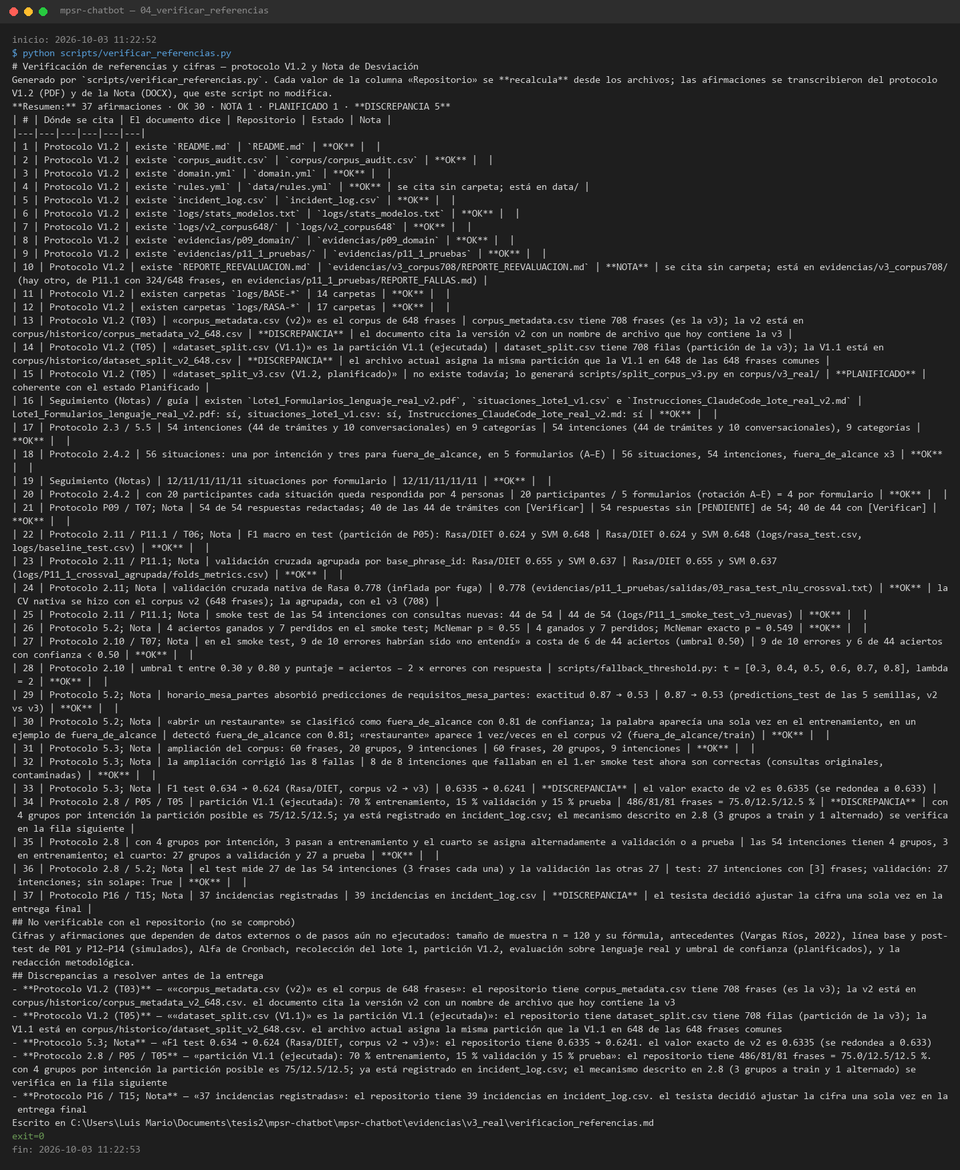
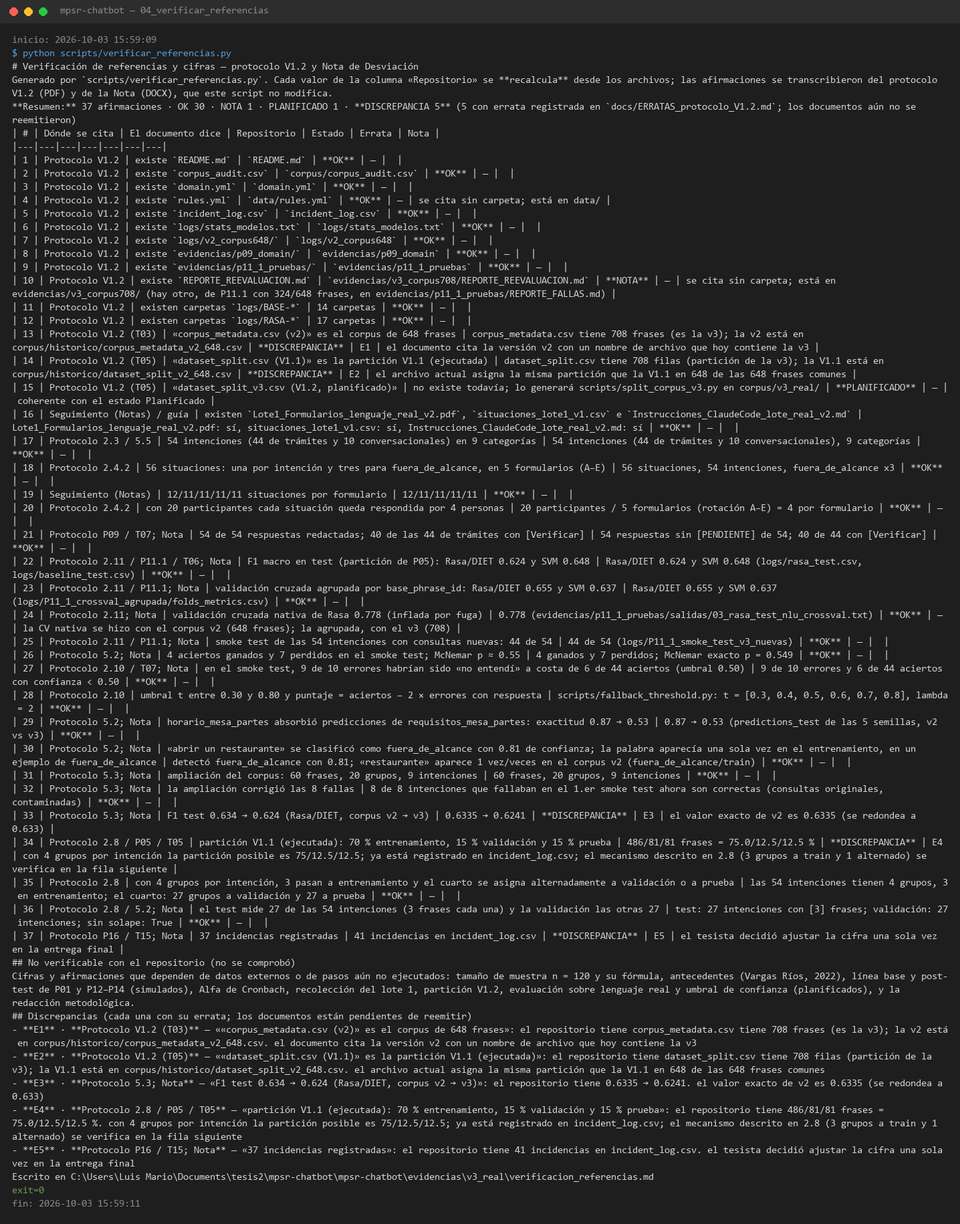
Corrige las 5 discrepancias entre el protocolo V1.2 / la nota y el repositorio
- docs/ERRATAS_protocolo_V1.2.md: E1-E5 con ubicación, texto actual, texto corregido y evidencia:
  E1 corpus_metadata.csv (v2) -> v3 (708); E2 dataset_split.csv (V1.1) -> corpus/historico/; E3 F1 0.634 -> 0.633 (valor exacto 0.63346);
  E4 partición 70/15/15 -> 75/12.5/12.5 (3 de 4 grupos a entrenamiento); E5 37 incidencias -> cifra viva (41 hoy)
- README: la partición vigente no sale de split_corpus.py; tabla de correspondencia con los nombres del protocolo
- corpus/historico/LEEME.md; comentario de expand_corpus.py con la proporción real (solo comentario)
- verificar_referencias.py liga cada discrepancia con su errata (5 de 5); evidencias y incident_log.csv (41 incidencias)
- Los PDF/DOCX no se editaron: las erratas se aplican al reemitir los documentos; no se cambió ningún dato

Changed region(s): [[0.0, 0.0309, 0.9805, 0.9874], [0.9499, 0.3703, 0.9805, 0.4011], [0.766, 0.216, 0.7967, 0.2469]]

diff --git a/scripts/verificar_referencias.py b/scripts/verificar_referencias.py
@@ -192,21 +192,36 @@ def main():
         "el tesista decidió ajustar la cifra una sola vez en la entrega final" if n_inc != 37 else "")
 
     # ============================================================ salida
+    ERRATAS = {"«corpus_metadata.csv (v2)»": "E1", "«dataset_split.csv (V1.1)»": "E2", "F1 test 0.634": "E3",
+               "partición V1.1 (ejecutada): 70 %": "E4", "37 incidencias registradas": "E5"}
+    ruta_err = ROOT / "docs" / "ERRATAS_protocolo_V1.2.md"
+    texto_err = ruta_err.read_text(encoding="utf-8") if ruta_err.exists() else ""
+
+    def errata_de(fila):
+        for clave, e in ERRATAS.items():
+            if clave in fila[1] and f"## {e} " in texto_err:
+                return e
+        return ""
+
     cuenta = {e: sum(1 for f in FILAS if f[3] == e) for e in ("OK", "NOTA", "PLANIFICADO", "DISCREPANCIA")}
+    disc = [f for f in FILAS if f[3] == "DISCREPANCIA"]
+    con_errata = sum(1 for f in disc if errata_de(f))
     L = ["# Verificación de referencias y cifras — protocolo V1.2 y Nota de Desviación", "",
          "Generado por `scripts/verificar_referencias.py`. Cada valor de la columna «Repositorio» se **recalcula** desde los archivos; las afirmaciones se transcribieron "
          "del protocolo V1.2 (PDF) y de la Nota (DOCX), que este script no modifica.", "",
-         f"**Resumen:** {len(FILAS)} afirmaciones · OK {cuenta['OK']} · NOTA {cuenta['NOTA']} · PLANIFICADO {cuenta['PLANIFICADO']} · **DISCREPANCIA {cuenta['DISCREPANCIA']}**", "",
-         "| # | Dónde se cita | El documento dice | Repositorio | Estado | Nota |", "|---|---|---|---|---|---|"]
-    for i, (d, dice, repo, est, nota) in enumerate(FILAS, 1):
-        L.append(f"| {i} | {d} | {dice} | {repo} | **{est}** | {nota} |".replace("\n", " "))
+         f"**Resumen:** {len(FILAS)} afirmaciones · OK {cuenta['OK']} · NOTA {cuenta['NOTA']} · PLANIFICADO {cuenta['PLANIFICADO']} · **DISCREPANCIA {cuenta['DISCREPANCIA']}** "
+         f"({con_errata} con errata registrada en `docs/ERRATAS_protocolo_V1.2.md`; los documentos aún no se reemitieron)", "",
+         "| # | Dónde se cita | El documento dice | Repositorio | Estado | Errata | Nota |", "|---|---|---|---|---|---|---|"]
+    for i, f in enumerate(FILAS, 1):
+        d, dice, repo, est, nota = f
+        L.append(f"| {i} | {d} | {dice} | {repo} | **{est}** | {errata_de(f) or '—'} | {nota} |".replace("\n", " "))
     L += ["", "## No verificable con el repositorio (no se comprobó)", "",
           "Cifras y afirmaciones que dependen de datos externos o de pasos aún no ejecutados: tamaño de muestra n = 120 y su fórmula, antecedentes (Vargas Ríos, 2022), "
           "línea base y post-test de P01 y P12–P14 (simulados), Alfa de Cronbach, recolección del lote 1, partición V1.2, evaluación sobre lenguaje real y umbral de confianza "
           "(planificados), y la redacción metodológica."]
-    disc = [f for f in FILAS if f[3] == "DISCREPANCIA"]
     if disc:
-        L += ["", "## Discrepancias a resolver antes de la entrega", ""] + [f"- **{f[0]}** — «{f[1]}»: el repositorio tiene {f[2]}. {f[4]}" for f in disc]
+        L += ["", "## Discrepancias (cada una con su errata; los documentos están pendientes de reemitir)", ""] + [
+            f"- **{errata_de(f) or 'sin errata'}** · **{f[0]}** — «{f[1]}»: el repositorio tiene {f[2]}. {f[4]}" for f in disc]
     out = ROOT / "evidencias" / "v3_real" / "verificacion_referencias.md"
     out.parent.mkdir(parents=True, exist_ok=True)
     out.write_text("\n".join(L) + "\n", encoding="utf-8")

diff --git a/scripts/expand_corpus.py b/scripts/expand_corpus.py
@@ -152,9 +152,9 @@ print(f"Total utterances: {len(rows)}  (antes: 324)")
 print(f"Total grupos: {len(groups)}  (antes: 108)")
 
 # ---------------------------------------------------------------------------
-# Partición MEJORADA: proporción ~70/15/15 POR INTENCIÓN (no solo 1 grupo a
-# train). Con 4 grupos/intención: round(4*0.7)=3 a train, resto alterna
-# validation/test.
+# Partición MEJORADA por intención (no solo 1 grupo a train): nominal 70/15/15,
+# pero con 4 grupos/intención: round(4*0.7)=3 a train y el cuarto alterna
+# validation/test, lo que da 486/81/81 frases = 75/12.5/12.5 % (no 70/15/15).
 # ---------------------------------------------------------------------------
 intent_to_groups = {}
 for bpid, intent, category in groups:

diff --git a/evidencias/v3_real/verificacion_referencias.md b/evidencias/v3_real/verificacion_referencias.md
@@ -2,56 +2,56 @@
 
 Generado por `scripts/verificar_referencias.py`. Cada valor de la columna «Repositorio» se **recalcula** desde los archivos; las afirmaciones se transcribieron del protocolo V1.2 (PDF) y de la Nota (DOCX), que este script no modifica.
 
-**Resumen:** 37 afirmaciones · OK 30 · NOTA 1 · PLANIFICADO 1 · **DISCREPANCIA 5**
+**Resumen:** 37 afirmaciones · OK 30 · NOTA 1 · PLANIFICADO 1 · **DISCREPANCIA 5** (5 con errata registrada en `docs/ERRATAS_protocolo_V1.2.md`; los documentos aún no se reemitieron)
 
-| # | Dónde se cita | El documento dice | Repositorio | Estado | Nota |
-|---|---|---|---|---|---|
-| 1 | Protocolo V1.2 | existe `README.md` | `README.md` | **OK** |  |
-| 2 | Protocolo V1.2 | existe `corpus_audit.csv` | `corpus/corpus_audit.csv` | **OK** |  |
-| 3 | Protocolo V1.2 | existe `domain.yml` | `domain.yml` | **OK** |  |
-| 4 | Protocolo V1.2 | existe `rules.yml` | `data/rules.yml` | **OK** | se cita sin carpeta; está en data/ |
-| 5 | Protocolo V1.2 | existe `incident_log.csv` | `incident_log.csv` | **OK** |  |
-| 6 | Protocolo V1.2 | existe `logs/stats_modelos.txt` | `logs/stats_modelos.txt` | **OK** |  |
-| 7 | Protocolo V1.2 | existe `logs/v2_corpus648/` | `logs/v2_corpus648` | **OK** |  |
-| 8 | Protocolo V1.2 | existe `evidencias/p09_domain/` | `evidencias/p09_domain` | **OK** |  |
-| 9 | Protocolo V1.2 | existe `evidencias/p11_1_pruebas/` | `evidencias/p11_1_pruebas` | **OK** |  |
-| 10 | Protocolo V1.2 | existe `REPORTE_REEVALUACION.md` | `evidencias/v3_corpus708/REPORTE_REEVALUACION.md` | **NOTA** | se cita sin carpeta; está en evidencias/v3_corpus708/ (hay otro, de P11.1 con 324/648 frases, en evidencias/p11_1_pruebas/REPORTE_FALLAS.md) |
-| 11 | Protocolo V1.2 | existen carpetas `logs/BASE-*` | 14 carpetas | **OK** |  |
-| 12 | Protocolo V1.2 | existen carpetas `logs/RASA-*` | 17 carpetas | **OK** |  |
-| 13 | Protocolo V1.2 (T03) | «corpus_metadata.csv (v2)» es el corpus de 648 frases | corpus_metadata.csv tiene 708 frases (es la v3); la v2 está en corpus/historico/corpus_metadata_v2_648.csv | **DISCREPANCIA** | el documento cita la versión v2 con un nombre de archivo que hoy contiene la v3 |
-| 14 | Protocolo V1.2 (T05) | «dataset_split.csv (V1.1)» es la partición V1.1 (ejecutada) | dataset_split.csv tiene 708 filas (partición de la v3); la V1.1 está en corpus/historico/dataset_split_v2_648.csv | **DISCREPANCIA** | el archivo actual asigna la misma partición que la V1.1 en 648 de las 648 frases comunes |
-| 15 | Protocolo V1.2 (T05) | «dataset_split_v3.csv (V1.2, planificado)» | no existe todavía; lo generará scripts/split_corpus_v3.py en corpus/v3_real/ | **PLANIFICADO** | coherente con el estado Planificado |
-| 16 | Seguimiento (Notas) / guía | existen `Lote1_Formularios_lenguaje_real_v2.pdf`, `situaciones_lote1_v1.csv` e `Instrucciones_ClaudeCode_lote_real_v2.md` | Lote1_Formularios_lenguaje_real_v2.pdf: sí, situaciones_lote1_v1.csv: sí, Instrucciones_ClaudeCode_lote_real_v2.md: sí | **OK** |  |
-| 17 | Protocolo 2.3 / 5.5 | 54 intenciones (44 de trámites y 10 conversacionales) en 9 categorías | 54 intenciones (44 de trámites y 10 conversacionales), 9 categorías | **OK** |  |
-| 18 | Protocolo 2.4.2 | 56 situaciones: una por intención y tres para fuera_de_alcance, en 5 formularios (A–E) | 56 situaciones, 54 intenciones, fuera_de_alcance x3 | **OK** |  |
-| 19 | Seguimiento (Notas) | 12/11/11/11/11 situaciones por formulario | 12/11/11/11/11 | **OK** |  |
-| 20 | Protocolo 2.4.2 | con 20 participantes cada situación queda respondida por 4 personas | 20 participantes / 5 formularios (rotación A–E) = 4 por formulario | **OK** |  |
-| 21 | Protocolo P09 / T07; Nota | 54 de 54 respuestas redactadas; 40 de las 44 de trámites con [Verificar] | 54 respuestas sin [PENDIENTE] de 54; 40 de 44 con [Verificar] | **OK** |  |
-| 22 | Protocolo 2.11 / P11.1 / T06; Nota | F1 macro en test (partición de P05): Rasa/DIET 0.624 y SVM 0.648 | Rasa/DIET 0.624 y SVM 0.648 (logs/rasa_test.csv, logs/baseline_test.csv) | **OK** |  |
-| 23 | Protocolo 2.11 / P11.1; Nota | validación cruzada agrupada por base_phrase_id: Rasa/DIET 0.655 y SVM 0.637 | Rasa/DIET 0.655 y SVM 0.637 (logs/P11_1_crossval_agrupada/folds_metrics.csv) | **OK** |  |
-| 24 | Protocolo 2.11; Nota | validación cruzada nativa de Rasa 0.778 (inflada por fuga) | 0.778 (evidencias/p11_1_pruebas/salidas/03_rasa_test_nlu_crossval.txt) | **OK** | la CV nativa se hizo con el corpus v2 (648 frases); la agrupada, con el v3 (708) |
-| 25 | Protocolo 2.11 / P11.1; Nota | smoke test de las 54 intenciones con consultas nuevas: 44 de 54 | 44 de 54 (logs/P11_1_smoke_test_v3_nuevas) | **OK** |  |
-| 26 | Protocolo 5.2; Nota | 4 aciertos ganados y 7 perdidos en el smoke test; McNemar p ≈ 0.55 | 4 ganados y 7 perdidos; McNemar exacto p = 0.549 | **OK** |  |
-| 27 | Protocolo 2.10 / T07; Nota | en el smoke test, 9 de 10 errores habrían sido «no entendí» a costa de 6 de 44 aciertos (umbral 0.50) | 9 de 10 errores y 6 de 44 aciertos con confianza < 0.50 | **OK** |  |
-| 28 | Protocolo 2.10 | umbral t entre 0.30 y 0.80 y puntaje = aciertos − 2 × errores con respuesta | scripts/fallback_threshold.py: t = [0.3, 0.4, 0.5, 0.6, 0.7, 0.8], lambda = 2 | **OK** |  |
-| 29 | Protocolo 5.2; Nota | horario_mesa_partes absorbió predicciones de requisitos_mesa_partes: exactitud 0.87 → 0.53 | 0.87 → 0.53 (predictions_test de las 5 semillas, v2 vs v3) | **OK** |  |
-| 30 | Protocolo 5.2; Nota | «abrir un restaurante» se clasificó como fuera_de_alcance con 0.81 de confianza; la palabra aparecía una sola vez en el entrenamiento, en un ejemplo de fuera_de_alcance | detectó fuera_de_alcance con 0.81; «restaurante» aparece 1 vez/veces en el corpus v2 (fuera_de_alcance/train) | **OK** |  |
-| 31 | Protocolo 5.3; Nota | ampliación del corpus: 60 frases, 20 grupos, 9 intenciones | 60 frases, 20 grupos, 9 intenciones | **OK** |  |
-| 32 | Protocolo 5.3; Nota | la ampliación corrigió las 8 fallas | 8 de 8 intenciones que fallaban en el 1.er smoke test ahora son correctas (consultas originales, contaminadas) | **OK** |  |
-| 33 | Protocolo 5.3; Nota | F1 test 0.634 → 0.624 (Rasa/DIET, corpus v2 → v3) | 0.6335 → 0.6241 | **DISCREPANCIA** | el valor exacto de v2 es 0.6335 (se redondea a 0.633) |
-| 34 | Protocolo 2.8 / P05 / T05 | partición V1.1 (ejecutada): 70 % entrenamiento, 15 % validación y 15 % prueba | 486/81/81 frases = 75.0/12.5/12.5 % | **DISCREPANCIA** | con 4 grupos por intención la partición posible es 75/12.5/12.5; ya está registrado en incident_log.csv; el mecanismo descrito en 2.8 (3 grupos a train y 1 alternado) se verifica en la fila siguiente |
-| 35 | Protocolo 2.8 | con 4 grupos por intención, 3 pasan a entrenamiento y el cuarto se asigna alternadamente a validación o a prueba | las 54 intenciones tienen 4 grupos, 3 en entrenamiento; el cuarto: 27 grupos a validación y 27 a prueba | **OK** |  |
-| 36 | Protocolo 2.8 / 5.2; Nota | el test mide 27 de las 54 intenciones (3 frases cada una) y la validación las otras 27 | test: 27 intenciones con [3] frases; validación: 27 intenciones; sin solape: True | **OK** |  |
-| 37 | Protocolo P16 / T15; Nota | 37 incidencias registradas | 39 incidencias en incident_log.csv | **DISCREPANCIA** | el tesista decidió ajustar la cifra una sola vez en la entrega final |
+| # | Dónde se cita | El documento dice | Repositorio | Estado | Errata | Nota |
+|---|---|---|---|---|---|---|
+| 1 | Protocolo V1.2 | existe `README.md` | `README.md` | **OK** | — |  |
+| 2 | Protocolo V1.2 | existe `corpus_audit.csv` | `corpus/corpus_audit.csv` | **OK** | — |  |
+| 3 | Protocolo V1.2 | existe `domain.yml` | `domain.yml` | **OK** | — |  |
+| 4 | Protocolo V1.2 | existe `rules.yml` | `data/rules.yml` | **OK** | — | se cita sin carpeta; está en data/ |
+| 5 | Protocolo V1.2 | existe `incident_log.csv` | `incident_log.csv` | **OK** | — |  |
+| 6 | Protocolo V1.2 | existe `logs/stats_modelos.txt` | `logs/stats_modelos.txt` | **OK** | — |  |
+| 7 | Protocolo V1.2 | existe `logs/v2_corpus648/` | `logs/v2_corpus648` | **OK** | — |  |
+| 8 | Protocolo V1.2 | existe `evidencias/p09_domain/` | `evidencias/p09_domain` | **OK** | — |  |
+| 9 | Protocolo V1.2 | existe `evidencias/p11_1_pruebas/` | `evidencias/p11_1_pruebas` | **OK** | — |  |
+| 10 | Protocolo V1.2 | existe `REPORTE_REEVALUACION.md` | `evidencias/v3_corpus708/REPORTE_REEVALUACION.md` | **NOTA** | — | se cita sin carpeta; está en evidencias/v3_corpus708/ (hay otro, de P11.1 con 324/648 frases, en evidencias/p11_1_pruebas/REPORTE_FALLAS.md) |
+| 11 | Protocolo V1.2 | existen carpetas `logs/BASE-*` | 14 carpetas | **OK** | — |  |
+| 12 | Protocolo V1.2 | existen carpetas `logs/RASA-*` | 17 carpetas | **OK** | — |  |
+| 13 | Protocolo V1.2 (T03) | «corpus_metadata.csv (v2)» es el corpus de 648 frases | corpus_metadata.csv tiene 708 frases (es la v3); la v2 está en corpus/historico/corpus_metadata_v2_648.csv | **DISCREPANCIA** | E1 | el documento cita la versión v2 con un nombre de archivo que hoy contiene la v3 |
+| 14 | Protocolo V1.2 (T05) | «dataset_split.csv (V1.1)» es la partición V1.1 (ejecutada) | dataset_split.csv tiene 708 filas (partición de la v3); la V1.1 está en corpus/historico/dataset_split_v2_648.csv | **DISCREPANCIA** | E2 | el archivo actual asigna la misma partición que la V1.1 en 648 de las 648 frases comunes |
+| 15 | Protocolo V1.2 (T05) | «dataset_split_v3.csv (V1.2, planificado)» | no existe todavía; lo generará scripts/split_corpus_v3.py en corpus/v3_real/ | **PLANIFICADO** | — | coherente con el estado Planificado |
+| 16 | Seguimiento (Notas) / guía | existen `Lote1_Formularios_lenguaje_real_v2.pdf`, `situaciones_lote1_v1.csv` e `Instrucciones_ClaudeCode_lote_real_v2.md` | Lote1_Formularios_lenguaje_real_v2.pdf: sí, situaciones_lote1_v1.csv: sí, Instrucciones_ClaudeCode_lote_real_v2.md: sí | **OK** | — |  |
+| 17 | Protocolo 2.3 / 5.5 | 54 intenciones (44 de trámites y 10 conversacionales) en 9 categorías | 54 intenciones (44 de trámites y 10 conversacionales), 9 categorías | **OK** | — |  |
+| 18 | Protocolo 2.4.2 | 56 situaciones: una por intención y tres para fuera_de_alcance, en 5 formularios (A–E) | 56 situaciones, 54 intenciones, fuera_de_alcance x3 | **OK** | — |  |
+| 19 | Seguimiento (Notas) | 12/11/11/11/11 situaciones por formulario | 12/11/11/11/11 | **OK** | — |  |
+| 20 | Protocolo 2.4.2 | con 20 participantes cada situación queda respondida por 4 personas | 20 participantes / 5 formularios (rotación A–E) = 4 por formulario | **OK** | — |  |
+| 21 | Protocolo P09 / T07; Nota | 54 de 54 respuestas redactadas; 40 de las 44 de trámites con [Verificar] | 54 respuestas sin [PENDIENTE] de 54; 40 de 44 con [Verificar] | **OK** | — |  |
+| 22 | Protocolo 2.11 / P11.1 / T06; Nota | F1 macro en test (partición de P05): Rasa/DIET 0.624 y SVM 0.648 | Rasa/DIET 0.624 y SVM 0.648 (logs/rasa_test.csv, logs/baseline_test.csv) | **OK** | — |  |
+| 23 | Protocolo 2.11 / P11.1; Nota | validación cruzada agrupada por base_phrase_id: Rasa/DIET 0.655 y SVM 0.637 | Rasa/DIET 0.655 y SVM 0.637 (logs/P11_1_crossval_agrupada/folds_metrics.csv) | **OK** | — |  |
+| 24 | Protocolo 2.11; Nota | validación cruzada nativa de Rasa 0.778 (inflada por fuga) | 0.778 (evidencias/p11_1_pruebas/salidas/03_rasa_test_nlu_crossval.txt) | **OK** | — | la CV nativa se hizo con el corpus v2 (648 frases); la agrupada, con el v3 (708) |
+| 25 | Protocolo 2.11 / P11.1; Nota | smoke test de las 54 intenciones con consultas nuevas: 44 de 54 | 44 de 54 (logs/P11_1_smoke_test_v3_nuevas) | **OK** | — |  |
+| 26 | Protocolo 5.2; Nota | 4 aciertos ganados y 7 perdidos en el smoke test; McNemar p ≈ 0.55 | 4 ganados y 7 perdidos; McNemar exacto p = 0.549 | **OK** | — |  |
+| 27 | Protocolo 2.10 / T07; Nota | en el smoke test, 9 de 10 errores habrían sido «no entendí» a costa de 6 de 44 aciertos (umbral 0.50) | 9 de 10 errores y 6 de 44 aciertos con confianza < 0.50 | **OK** | — |  |
+| 28 | Protocolo 2.10 | umbral t entre 0.30 y 0.80 y puntaje = aciertos − 2 × errores con respuesta | scripts/fallback_threshold.py: t = [0.3, 0.4, 0.5, 0.6, 0.7, 0.8], lambda = 2 | **OK** | — |  |
+| 29 | Protocolo 5.2; Nota | horario_mesa_partes absorbió predicciones de requisitos_mesa_partes: exactitud 0.87 → 0.53 | 0.87 → 0.53 (predictions_test de las 5 semillas, v2 vs v3) | **OK** | — |  |
+| 30 | Protocolo 5.2; Nota | «abrir un restaurante» se clasificó como fuera_de_alcance con 0.81 de confianza; la palabra aparecía una sola vez en el entrenamiento, en un ejemplo de fuera_de_alcance | detectó fuera_de_alcance con 0.81; «restaurante» aparece 1 vez/veces en el corpus v2 (fuera_de_alcance/train) | **OK** | — |  |
+| 31 | Protocolo 5.3; Nota | ampliación del corpus: 60 frases, 20 grupos, 9 intenciones | 60 frases, 20 grupos, 9 intenciones | **OK** | — |  |
+| 32 | Protocolo 5.3; Nota | la ampliación corrigió las 8 fallas | 8 de 8 intenciones que fallaban en el 1.er smoke test ahora son correctas (consultas originales, contaminadas) | **OK** | — |  |
+| 33 | Protocolo 5.3; Nota | F1 test 0.634 → 0.624 (Rasa/DIET, corpus v2 → v3) | 0.6335 → 0.6241 | **DISCREPANCIA** | E3 | el valor exacto de v2 es 0.6335 (se redondea a 0.633) |
+| 34 | Protocolo 2.8 / P05 / T05 | partición V1.1 (ejecutada): 70 % entrenamiento, 15 % validación y 15 % prueba | 486/81/81 frases = 75.0/12.5/12.5 % | **DISCREPANCIA** | E4 | con 4 grupos por intención la partición posible es 75/12.5/12.5; ya está registrado en incident_log.csv; el mecanismo descrito en 2.8 (3 grupos a train y 1 alternado) se verifica en la fila siguiente |
+| 35 | Protocolo 2.8 | con 4 grupos por intención, 3 pasan a entrenamiento y el cuarto se asigna alternadamente a validación o a prueba | las 54 intenciones tienen 4 grupos, 3 en entrenamiento; el cuarto: 27 grupos a validación y 27 a prueba | **OK** | — |  |
+| 36 | Protocolo 2.8 / 5.2; Nota | el test mide 27 de las 54 intenciones (3 frases cada una) y la validación las otras 27 | test: 27 intenciones con [3] frases; validación: 27 intenciones; sin solape: True | **OK** | — |  |
+| 37 | Protocolo P16 / T15; Nota | 37 incidencias registradas | 41 incidencias en incident_log.csv | **DISCREPANCIA** | E5 | el tesista decidió ajustar la cifra una sola vez en la entrega final |
 
 ## No verificable con el repositorio (no se comprobó)
 
 Cifras y afirmaciones que dependen de datos externos o de pasos aún no ejecutados: tamaño de muestra n = 120 y su fórmula, antecedentes (Vargas Ríos, 2022), línea base y post-test de P01 y P12–P14 (simulados), Alfa de Cronbach, recolección del lote 1, partición V1.2, evaluación sobre lenguaje real y umbral de confianza (planificados), y la redacción metodológica.
 
-## Discrepancias a resolver antes de la entrega
+## Discrepancias (cada una con su errata; los documentos están pendientes de reemitir)
 
-- **Protocolo V1.2 (T03)** — ««corpus_metadata.csv (v2)» es el corpus de 648 frases»: el repositorio tiene corpus_metadata.csv tiene 708 frases (es la v3); la v2 está en corpus/historico/corpus_metadata_v2_648.csv. el documento cita la versión v2 con un nombre de archivo que hoy contiene la v3
-- **Protocolo V1.2 (T05)** — ««dataset_split.csv (V1.1)» es la partición V1.1 (ejecutada)»: el repositorio tiene dataset_split.csv tiene 708 filas (partición de la v3); la V1.1 está en corpus/historico/dataset_split_v2_648.csv. el archivo actual asigna la misma partición que la V1.1 en 648 de las 648 frases comunes
-- **Protocolo 5.3; Nota** — «F1 test 0.634 → 0.624 (Rasa/DIET, corpus v2 → v3)»: el repositorio tiene 0.6335 → 0.6241. el valor exacto de v2 es 0.6335 (se redondea a 0.633)
-- **Protocolo 2.8 / P05 / T05** — «partición V1.1 (ejecutada): 70 % entrenamiento, 15 % validación y 15 % prueba»: el repositorio tiene 486/81/81 frases = 75.0/12.5/12.5 %. con 4 grupos por intención la partición posible es 75/12.5/12.5; ya está registrado en incident_log.csv; el mecanismo descrito en 2.8 (3 grupos a train y 1 alternado) se verifica en la fila siguiente
-- **Protocolo P16 / T15; Nota** — «37 incidencias registradas»: el repositorio tiene 39 incidencias en incident_log.csv. el tesista decidió ajustar la cifra una sola vez en la entrega final
+- **E1** · **Protocolo V1.2 (T03)** — ««corpus_metadata.csv (v2)» es el corpus de 648 frases»: el repositorio tiene corpus_metadata.csv tiene 708 frases (es la v3); la v2 está en corpus/historico/corpus_metadata_v2_648.csv. el documento cita la versión v2 con un nombre de archivo que hoy contiene la v3
+- **E2** · **Protocolo V1.2 (T05)** — ««dataset_split.csv (V1.1)» es la partición V1.1 (ejecutada)»: el repositorio tiene dataset_split.csv tiene 708 filas (partición de la v3); la V1.1 está en corpus/historico/dataset_split_v2_648.csv. el archivo actual asigna la misma partición que la V1.1 en 648 de las 648 frases comunes
+- **E3** · **Protocolo 5.3; Nota** — «F1 test 0.634 → 0.624 (Rasa/DIET, corpus v2 → v3)»: el repositorio tiene 0.6335 → 0.6241. el valor exacto de v2 es 0.6335 (se redondea a 0.633)
+- **E4** · **Protocolo 2.8 / P05 / T05** — «partición V1.1 (ejecutada): 70 % entrenamiento, 15 % validación y 15 % prueba»: el repositorio tiene 486/81/81 frases = 75.0/12.5/12.5 %. con 4 grupos por intención la partición posible es 75/12.5/12.5; ya está registrado en incident_log.csv; el mecanismo descrito en 2.8 (3 grupos a train y 1 alternado) se verifica en la fila siguiente
+- **E5** · **Protocolo P16 / T15; Nota** — «37 incidencias registradas»: el repositorio tiene 41 incidencias en incident_log.csv. el tesista decidió ajustar la cifra una sola vez en la entrega final

diff --git a/docs/ERRATAS_protocolo_V1.2.md b/docs/ERRATAS_protocolo_V1.2.md
@@ -1,0 +1,66 @@
+# Erratas al protocolo V1.2 y a la Nota de Desviación (3 de octubre de 2026)
+
+`scripts/verificar_referencias.py` compara las rutas y cifras de los documentos con los archivos del repositorio
+(resultado: `evidencias/v3_real/verificacion_referencias.md`). Encontró **5 discrepancias**. En cuatro de ellas el repositorio es el correcto
+y el texto del documento quedó desactualizado; la quinta es una imprecisión de redacción. **Los PDF y DOCX no se modificaron**: el protocolo V1.2 solo
+existe como PDF y la nota debe seguir coincidiendo en sus dos formatos, así que estas erratas se aplican al reemitir los documentos.
+
+Estado de todas: **Pendiente de aplicar en los documentos.** Ya están corregidas dentro del repositorio (README, `corpus/historico/LEEME.md`,
+comentario de `scripts/expand_corpus.py`) y `verificar_referencias.py` las marca como «errata registrada».
+
+---
+
+## E1 — `corpus_metadata.csv (v2)` en la matriz (fila T03)
+
+| | |
+|---|---|
+| **Dónde** | Protocolo V1.2, sección 4, fila **T03**, columna «Evidencia verificable»; también relevante para P11.1 / T06 / T07.1 |
+| **Dice** | `corpus_metadata.csv (v2)` |
+| **Debe decir** | `corpus_metadata.csv (v3: 708 frases; la v2, de 648, está en corpus/historico/corpus_metadata_v2_648.csv)` |
+| **Por qué** | `corpus/corpus_metadata.csv` contiene hoy la **v3** (708 frases = v2 + 60 frases de `corpus/ampliacion_v3.csv`). Los resultados de P11.1 que cita el documento (F1 test 0.624 y 0.648; validación cruzada agrupada 0.655 y 0.637; smoke test 44/54) se obtuvieron con la **v3**, no con la v2 |
+| **Evidencia** | `corpus/corpus_summary.json` (708 frases, 236 grupos); `evidencias/v3_corpus708/`; `logs/rasa_test.csv` |
+
+## E2 — `dataset_split.csv (V1.1)` en la matriz (fila T05)
+
+| | |
+|---|---|
+| **Dónde** | Protocolo V1.2, sección 4, fila **T05**, columna «Evidencia verificable» |
+| **Dice** | `dataset_split.csv (V1.1); dataset_split_v3.csv (V1.2, planificado)` |
+| **Debe decir** | `corpus/historico/dataset_split_v2_648.csv (V1.1, 648 frases); corpus/dataset_split.csv (partición del corpus v3, 708 frases); corpus/v3_real/dataset_split_v3.csv (V1.2, planificado)` |
+| **Por qué** | `corpus/dataset_split.csv` es la partición del corpus v3 (546/81/81). La V1.1 vive en `corpus/historico/`. Ambas asignan la misma partición a las 648 frases comunes (verificado por el script) |
+
+## E3 — «F1 test 0.634 → 0.624»
+
+| | |
+|---|---|
+| **Dónde** | Protocolo V1.2, sección **5.3** («Medidas ya ejecutadas», 2.ª fila); Nota de Desviación, sección **4** («Medidas ya ejecutadas», 2.ª fila) |
+| **Dice** | `Corrigió las 8 fallas; sin mejora global (F1 test 0.634 → 0.624)` |
+| **Debe decir** | `Corrigió las 8 fallas; sin mejora global (F1 test 0.633 → 0.624)` (o, con más precisión, `0.6335 → 0.6241`) |
+| **Por qué** | El valor exacto del F1 macro medio de Rasa/DIET con el corpus v2 es **0.63346**: a 3 decimales es 0.633. El «0.634» sale de redondear dos veces (0.6335 → 0.634) |
+| **Evidencia** | `logs/v2_corpus648/rasa_test.csv` (media de las 5 semillas = 0.6334624…); `logs/rasa_test.csv` (0.6241406…) |
+
+## E4 — Partición V1.1 «70/15/15»
+
+| | |
+|---|---|
+| **Dónde** | Protocolo V1.2, sección **2.8** («Partición V1.1 (ejecutada): 70 % entrenamiento, 15 % validación y 15 % prueba …»); paso **P05** («Aplicar partición 70/15/15 …»); fila **T05**, columna «Configuración / control» («70/15/15; seed = 42 …») |
+| **Dice** | `70 % entrenamiento, 15 % validación y 15 % prueba` / `70/15/15` |
+| **Debe decir** | `partición por grupos (base_phrase_id) con semilla 42: con 4 grupos por intención, 3 pasan a entrenamiento y el cuarto se asigna alternadamente a validación o a prueba (486/81/81 frases = 75/12.5/12.5 %; nominal 70/15/15)` |
+| **Por qué** | La partición ejecutada es 486/81/81 = 75/12.5/12.5 %. El mecanismo que describe el texto (3 de 4 grupos a entrenamiento, el cuarto alterna) sí coincide con los datos: las 54 intenciones tienen 4 grupos, 3 en entrenamiento, y el cuarto va 27 a validación y 27 a prueba. Ya figura en `incident_log.csv` |
+| **Evidencia** | `corpus/historico/dataset_split_v2_648.csv`; `scripts/expand_corpus.py` |
+
+## E5 — «37 incidencias registradas»
+
+| | |
+|---|---|
+| **Dónde** | Protocolo V1.2, pasos **P16** y fila **T15** («Ejecutado (37 incidencias)»); Nota de Desviación, última línea («… con 37 incidencias registradas») |
+| **Dice** | `37 incidencias` |
+| **Debe decir** | `N incidencias a la fecha de entrega (registro vivo en incident_log.csv)`. Hoy: **41** |
+| **Por qué** | `incident_log.csv` es un registro vivo y cada paso nuevo agrega filas; una cifra fija queda obsoleta enseguida. Conviene calcularla el día de la entrega con `python scripts/verificar_referencias.py` (fila «incidencias») o con `wc -l` del archivo menos el encabezado |
+
+---
+
+## Cómo comprobar que están aplicadas
+
+Tras reemitir los documentos, actualizar las afirmaciones transcritas en `scripts/verificar_referencias.py` (lista `reg(...)` de cada fila) y ejecutarlo: las
+5 filas deben pasar a OK y el resumen debe decir «DISCREPANCIA 0».

diff --git a/README.md b/README.md
@@ -168,7 +168,7 @@ Con el entorno activado y desde la raíz del repositorio:
 |---|---------|------|-------------|
 | 1 | `python scripts/audit_corpus.py` | P03 | `corpus/corpus_audit.csv`, `logs/audit_report.txt` |
 | 2 | `python scripts/audit_corpus.py --apply` | P04 | Fusiona en un mismo `base_phrase_id` los casi-duplicados (≥ 0.90) |
-| 3 | `python scripts/split_corpus.py` | P05 | `corpus/dataset_split.csv` y columna `split` (70/15/15, seed 42) |
+| 3 | `python scripts/split_corpus.py` | P05 | Alternativa: `corpus/dataset_split.csv` y columna `split` con proporción nominal 70/15/15 (seed 42). **La partición vigente (v2/v3) no sale de este script**: la generan `expand_corpus.py` y `apply_ampliacion_v3.py` (3 de 4 grupos por intención a entrenamiento = 75/12.5/12.5) |
 | 4 | `python scripts/train_baseline.py` | P07, P10, P11 | `logs/BASE-*`, `logs/baseline_validation.csv`, `logs/baseline_test.csv` |
 | 5 | `python scripts/run_rasa_grid.py --smoke` | — | Prueba rápida del flujo Rasa (≈1 min). **No es un resultado válido** |
 | 6 | `python scripts/run_rasa_grid.py` | P08, P10, P11 | `data/nlu_*.yml`, `logs/RASA-*`, `logs/rasa_validation.csv`, `logs/rasa_test.csv` |
@@ -217,6 +217,19 @@ evalúa **una sola vez** (`logs/v3_real/test_registro.json` cuenta cada evaluaci
 | B4 | `python scripts/eval_real.py` | Grilla SVM y Rasa en validación; repeticiones (semillas 10–50) en test con IC95 %, McNemar y bootstrap pareado |
 | B5 | `python scripts/fallback_threshold.py` y `--fase test` | Umbral por puntaje = aciertos − 2 × errores en validación; evaluación única en test |
 
+## Correspondencia con los nombres del protocolo V1.2
+
+El protocolo V1.2 y la nota citan algunos archivos con la versión de cuando se redactaron; hoy esos nombres contienen otra versión del corpus.
+Las correcciones al texto de los documentos están en [`docs/ERRATAS_protocolo_V1.2.md`](docs/ERRATAS_protocolo_V1.2.md).
+
+| El documento cita | Hoy en el repositorio |
+|---|---|
+| `corpus_metadata.csv (v2)` (T03) | `corpus/corpus_metadata.csv` es la **v3** (708 frases); la v2 (648) está en `corpus/historico/corpus_metadata_v2_648.csv`. Los F1 de P11.1 (0.624, 0.648, 0.655, 0.637) salen de la v3 |
+| `dataset_split.csv (V1.1)` (T05) | `corpus/dataset_split.csv` es la partición de la v3 (546/81/81); la V1.1 (486/81/81, 75/12.5/12.5 %) está en `corpus/historico/dataset_split_v2_648.csv` |
+| `dataset_split_v3.csv (V1.2)` (T05) | Todavía no existe (Planificado); lo generará `scripts/split_corpus_v3.py` en `corpus/v3_real/` |
+| `rules.yml`, `REPORTE_REEVALUACION.md` | `data/rules.yml`; `evidencias/v3_corpus708/REPORTE_REEVALUACION.md` |
+| «37 incidencias» | `incident_log.csv` es un registro vivo; el número exacto se calcula con `python scripts/verificar_referencias.py` |
+
 ## Estado real de cada resultado y cambio
 
 Cada resultado se etiqueta con su estado real: **Ejecutado**, **Planificado** o **Simulado** (nada simulado se presenta como real
@@ -233,7 +246,7 @@ ni nada planificado como ejecutado). Detalle en `docs/Planteamiento_Metodologia_
 | Scripts del lote real (conciliación, ingesta, partición v3, evaluación, umbral) | **Ejecutado** (código) y probado con datos **Simulados** (falsos) | `scripts/`, `tests/smoke_lote_real.py`, `tests/smoke_conciliar.py`, `evidencias/v3_real/` |
 | Seguimiento del lote 1: plantilla v3 (vacía) | **Ejecutado** (herramienta lista; sin participantes reales) | `docs/lote_real_1/seguimiento/` |
 | Seguimiento simulado v3 y v2 | **Simulado** (ejemplos; no son evidencia) | `docs/lote_real_1/seguimiento/ejemplos_simulados/`, `historico/` |
-| Verificación de rutas y cifras del protocolo V1.2 contra el repositorio | **Ejecutado** (30 OK, 5 discrepancias documentadas) | `evidencias/v3_real/verificacion_referencias.md` |
+| Verificación de rutas y cifras del protocolo V1.2 contra el repositorio | **Ejecutado** (30 OK, 5 discrepancias con errata E1–E5; los documentos aún no se reemitieron) | `evidencias/v3_real/verificacion_referencias.md`, `docs/ERRATAS_protocolo_V1.2.md` |
 | Recolección del lote 1 de frases reales | **Planificado** (formularios y catálogo `situaciones_lote1_v1.csv` listos y verificados; faltan las respuestas de los participantes) | `docs/lote_real_1/` |
 | Partición v3 (entrenamiento sintético; validación y test reales) | **Planificado** (depende del lote 1) | `scripts/split_corpus_v3.py` |
 | Evaluación sobre lenguaje real con IC95 % y McNemar | **Planificado** | `scripts/eval_real.py` |

diff --git a/evidencias/v3_real/README.md b/evidencias/v3_real/README.md
@@ -11,7 +11,7 @@
 | 01a | primer intento del mismo arnés | 52/53: el fallo era un falso positivo (ver abajo) | [txt](salidas/01a_smoke_lote_real_primer_intento_DATOS_FALSOS.txt) | [png](capturas/01a_smoke_lote_real_primer_intento_DATOS_FALSOS.png) |
 | 02 | mismo arnés con el **catálogo real** del tesista (`situaciones_lote1_v1.csv`) y 6 comprobaciones nuevas | **59/59 comprobaciones PASS** (6 min) | [txt](salidas/02_smoke_lote_real_catalogo_real_DATOS_FALSOS.txt) | [png](capturas/02_smoke_lote_real_catalogo_real_DATOS_FALSOS.png) |
 | 03 | `python tests/smoke_conciliar.py` (seguimiento v3 + respuestas FALSAS) | **22/22 comprobaciones PASS**: detecta ausentes y blancos con respuesta, se niega con SIMULADO_v3/v2, exporta sin ocupación | [txt](salidas/03_smoke_conciliar_seguimiento_DATOS_FALSOS.txt) | [png](capturas/03_smoke_conciliar_seguimiento_DATOS_FALSOS.png) |
-| 04 | `python scripts/verificar_referencias.py` | 37 afirmaciones del protocolo V1.2 y la nota: 30 OK, 5 discrepancias (ver [verificacion_referencias.md](verificacion_referencias.md)) | [txt](salidas/04_verificar_referencias.txt) | [png](capturas/04_verificar_referencias.png) |
+| 04 | `python scripts/verificar_referencias.py` | 37 afirmaciones del protocolo V1.2 y la nota: 30 OK, 5 discrepancias, cada una con su errata E1–E5 (ver [verificacion_referencias.md](verificacion_referencias.md) y [docs/ERRATAS_protocolo_V1.2.md](../../docs/ERRATAS_protocolo_V1.2.md)) | [txt](salidas/04_verificar_referencias.txt) | [png](capturas/04_verificar_referencias.png) |
 
 
 

diff --git a/corpus/historico/LEEME.md b/corpus/historico/LEEME.md
@@ -1,0 +1,10 @@
+# Corpus y particiones históricas
+
+| Archivo | Qué es | Frases | Partición (train/val/test) |
+|---|---|---|---|
+| `corpus_metadata_v1_324.csv`, `dataset_split_v1_324.csv` | Corpus v1 (2 grupos por intención) | 324 | 162/81/81 |
+| `corpus_metadata_v2_648.csv`, `dataset_split_v2_648.csv` | Corpus v2 (4 grupos por intención); **es la partición «V1.1» del protocolo** | 648 | 486/81/81 = 75/12.5/12.5 % |
+
+El corpus **vigente** (v3, 708 frases = v2 + `corpus/ampliacion_v3.csv`) está en `corpus/corpus_metadata.csv` y `corpus/dataset_split.csv`
+(546/81/81; validación y test idénticos a los de v2). La partición V1.1 no es 70/15/15: con 4 grupos por intención, 3 van a entrenamiento y el cuarto
+alterna entre validación y prueba (ver `scripts/expand_corpus.py`).

diff --git a/docs/README.md b/docs/README.md
@@ -8,4 +8,5 @@
 | `Ficha2_Registro_Correcciones_Protocolo.docx` | Registro de correcciones de la revisión por pares (V1.0 → V1.1) | Histórico |
 | `Ficha_Diagnostico_P01_OE1.docx` | Instrumento de diagnóstico de la atención presencial (OE1) | Vigente |
 | `Informe_Ejecucion_Preliminar.docx` | Informe de la ejecución preliminar (baseline P07 y simulaciones de P14) | Histórico |
+| `ERRATAS_protocolo_V1.2.md` | 5 erratas (E1–E5) al protocolo V1.2 y a la nota, con el texto actual y el corregido, detectadas por `scripts/verificar_referencias.py` | Pendiente de aplicar en los documentos |
 | `lote_real_1/` | Formularios, guía y catálogo de situaciones (`situaciones_lote1_v1.csv`) del lote 1 de lenguaje real (ver `lote_real_1/LEEME.md`) | Planificado (listo para aplicar) |
